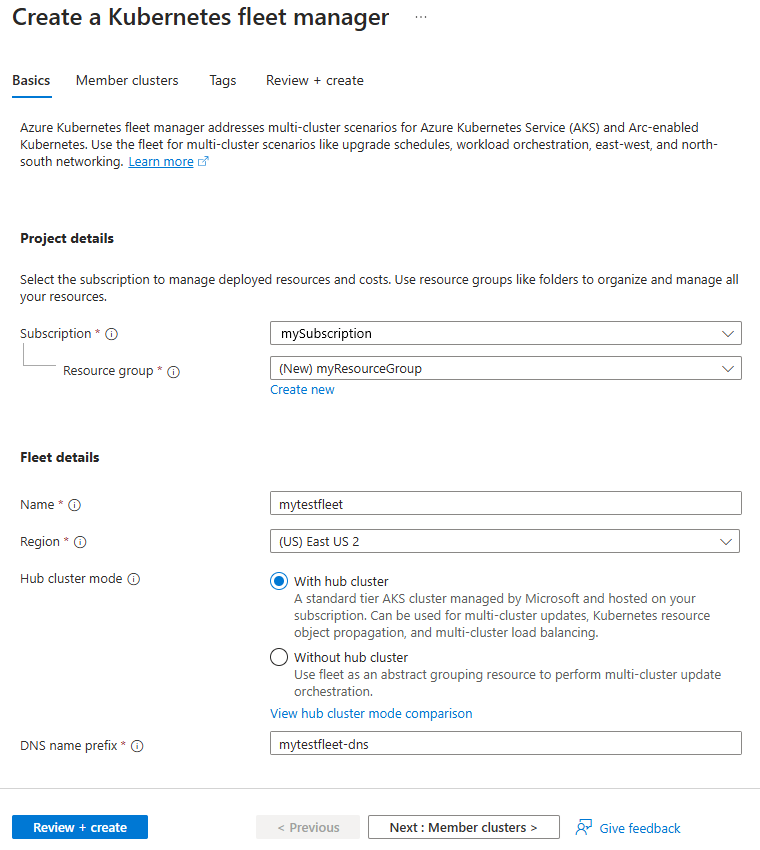
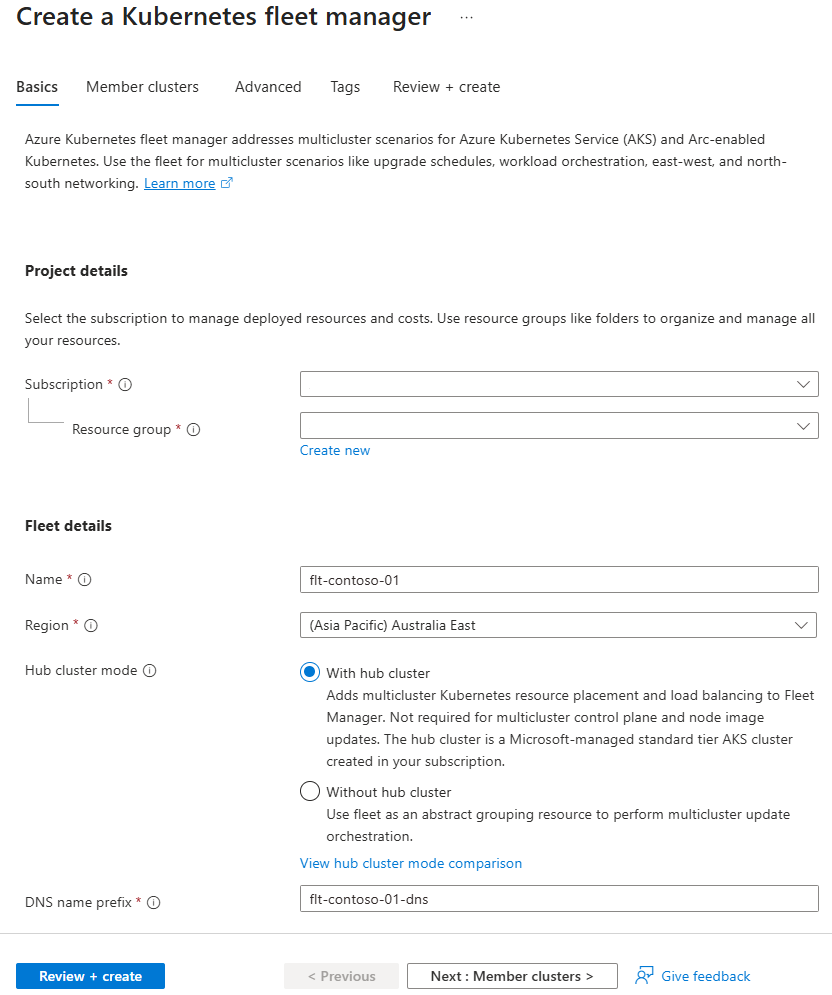
Update portal quickstart for create Fleet Manager.

diff --git a/articles/kubernetes-fleet/quickstart-create-fleet-and-members-portal.md b/articles/kubernetes-fleet/quickstart-create-fleet-and-members-portal.md
@@ -1,9 +1,9 @@
 ---
-title: "Quickstart: Create an Azure Kubernetes Fleet Manager and join member clusters using Azure portal"
-description: In this quickstart, you learn how to create an Azure Kubernetes Fleet Manager and join member clusters using Azure portal.
-ms.date: 12/16/2025
-author: shashankbarsin
-ms.author: shasb
+title: "Quickstart: Create an Azure Kubernetes Fleet Manager and join member clusters using the Azure portal"
+description: In this quickstart, you learn how to create an Azure Kubernetes Fleet Manager and join member clusters using the Azure portal.
+ms.date: 02/06/2026
+author: sjwaight
+ms.author: simonwaight
 ms.service: azure-kubernetes-fleet-manager
 ms.custom: template-quickstart, mode-other
 ms.devlang: azurecli
@@ -11,7 +11,7 @@ ms.topic: quickstart
 # Customer intent: As a cloud architect, I want to create an Azure Kubernetes Fleet Manager and join member clusters using the Azure portal, so that I can manage and orchestrate multiple Kubernetes clusters for improved scalability and application deployment.
 ---
 
-# Quickstart: Create an Azure Kubernetes Fleet Manager and join member clusters using Azure portal
+# Quickstart: Create an Azure Kubernetes Fleet Manager and join member clusters using the Azure portal
 
 **Applies to:** :heavy_check_mark: Fleet Manager :heavy_check_mark: Fleet Manager with hub cluster
 
@@ -21,11 +21,11 @@ Get started with Azure Kubernetes Fleet Manager by using the Azure portal to cre
 
 [!INCLUDE [free trial note](~/reusable-content/ce-skilling/azure/includes/quickstarts-free-trial-note.md)]
 
-* Read the [conceptual overview of this feature](./concepts-fleet.md), which provides an explanation of fleets and member clusters referenced in this document.
+* Read the [conceptual overview of Fleet Manager](./concepts-fleet.md), which provides an explanation of fleets and member clusters referenced in this document.
 * An Azure account with an active subscription. [Create an account for free](https://azure.microsoft.com/pricing/purchase-options/azure-account?cid=msft_learn).
-* An identity (user or service principal) with the following permissions for Fleet resources, and if applicable, member cluster resources:
+* An identity (user or service principal) with the following permissions:
 
-* **Fleet permissions:**
+* **Fleet Manager permissions:**
   * Microsoft.ContainerService/fleets/read
   * Microsoft.ContainerService/fleets/write
   * Microsoft.ContainerService/fleets/members/read
@@ -47,25 +47,49 @@ Get started with Azure Kubernetes Fleet Manager by using the Azure portal to cre
 ## Create a Fleet Manager resource
 
 1. Sign in to the [Azure portal](https://portal.azure.com/).
-2. On the Azure portal home page, select **Create a resource**.
-3. In the search box, enter **Kubernetes Fleet Manager** and select **Create > Kubernetes Fleet Manager** from the search results.
-4. On the **Basics** tab, configure the following options:
+1. On the Azure portal home page, select **Create a resource**.
+1. In the search box, enter **Kubernetes Fleet Manager** and select **Create > Kubernetes Fleet Manager** from the search results.
+1. On the **Basics** tab, configure the following options:
 
     * Under **Project details**:
       * **Subscription**: Select the Azure subscription that you want to use.
       * **Resource group**: Select an existing resource group or select **Create new** to create a new resource group.
     * Under **Fleet details**:
-      * **Name**: Enter a unique name for the Fleet resource.
-      * **Region**: Select the region where you want to create the Fleet resource.
-      * **Hub cluster mode**: Leave the default selection of **With hub cluster** if you want to use Fleet Manager for Kubernetes object propagation and multi-cluster load balancing along with update orchestration. Select **Without hub cluster** if you want to use Fleet Manager only for update orchestration.
+      * **Name**: Enter a unique name for the Fleet Manager.
+      * **Region**: Select the region where you want to create the Fleet Manager.
+      * **Hub cluster mode**: Select one of the following options based on features you require:
+        * **With hub cluster** multi-cluster Kubernetes resource placement, Managed Fleet Namspaces, DNS load balancing and cluster upgrades. 
+        * **Without hub cluster** safe multi-cluster Kubernetes and node image cluster upgrades, cluster observability.
 
-        :::image type="content" source="./media/quickstart-create-fleet-and-members-portal/create-fleet-and-members-portal-basics.png" alt-text="Screenshot of the Create Fleet resource basics tab in the Azure portal." lightbox="./media/quickstart-create-fleet-and-members-portal/create-fleet-and-members-portal-basics.png":::
+        :::image type="content" source="./media/quickstart-create-fleet-and-members-portal/create-fleet-and-members-portal-basics.png" alt-text="Screenshot of the Create Fleet Manager basics tab in the Azure portal." lightbox="./media/quickstart-create-fleet-and-members-portal/create-fleet-and-members-portal-basics.png":::
 
-5. Select **Next: Member clusters**.
-6. On the **Member clusters** tab, select **Add** to add an existing cluster as a member cluster to the Fleet Manager. You can add multiple member clusters to the Fleet Manager.
-7. Select **Review + create** > **Create** to create the Fleet resource.
+1. Select **Next: Member clusters**.
+1. Select **+ Add** to add existing clusters, filtering the cluster list by using the search box.
 
-    It takes a few minutes to create the Fleet resource. When your deployment is complete, you can navigate to your resource by selecting **Go to resource**.
+    :::image type="content" source="./media/quickstart-create-fleet-and-members-portal/create-fleet-and-members-portal-add-members-search.png" alt-text="Screenshot of the Create Fleet Manager add member cluster dialog in the Azure portal." lightbox="./media/quickstart-create-fleet-and-members-portal/create-fleet-and-members-portal-add-members-search.png":::
+
+1. Select **Add** to add the selected clusters and close the list.
+1. In them member list:
+    * A **Name** is generated for the member cluster to uniquely identify it within Fleet Manager. Modify the generated name if as required.
+    * Enter an **update group** for the member cluster so the cluster can be included in safe cluster updates when the group is included in an [update strategy](./).
+
+     :::image type="content" source="./media/quickstart-create-fleet-and-members-portal/create-fleet-and-members-portal-add-members-add-update-group-name.png" alt-text="Screenshot of the Create Fleet Manager add member cluster name and update group options in the Azure portal." lightbox="./media/quickstart-create-fleet-and-members-portal/create-fleet-and-members-portal-add-members-add-update-group-name.png":::
+
+1. Select **Next: Advanced**.
+1. On the **Advanced** tab, configure the following options:
+    * Select **Private hub access** to provision a private hub cluster with [API server VNet integration](../aks/api-server-vnet-integration.md):
+        * **Virtual network**: Select an existing Azure virtual network or select **Create new** to create a new virtual network.
+        * **Cluster subnet**: Select a subnet on the Azure virtual network on which the hub cluster will reside.
+        * **API server subnet**: Select a subnet on which the hub cluster's API server will be integrated. 
+    * Select an existing [user-assigned managed identity](/entra/identity/managed-identities-azure-resources/overview#managed-identity-types) or select **Create new** to create a new user-assigned managed identity to be used by Fleet Manager.
+    * Optionally, create one or more [Managed Fleet Namespaces](./concepts-fleet-managed-namespace.md) to provision with the Fleet Manager.
+
+    :::image type="content" source="./media/quickstart-create-fleet-and-members-portal/create-fleet-and-members-portal-advanced.png" alt-text="Screenshot of the Create Fleet Manager advanced tab in the Azure portal." lightbox="./media/quickstart-create-fleet-and-members-portal/create-fleet-and-members-portal-advanced.png":::
+
+1. Select **Next: Tags** and define any Azure resource tags to apply to the new Fleet Manager.
+1. Select **Review + create** > **Create** to create the Fleet Manager.
+
+It takes a few minutes to create the Fleet resource. When your deployment is complete, you can navigate to your resource by selecting **Go to resource**.
 
 ## Next steps
 
